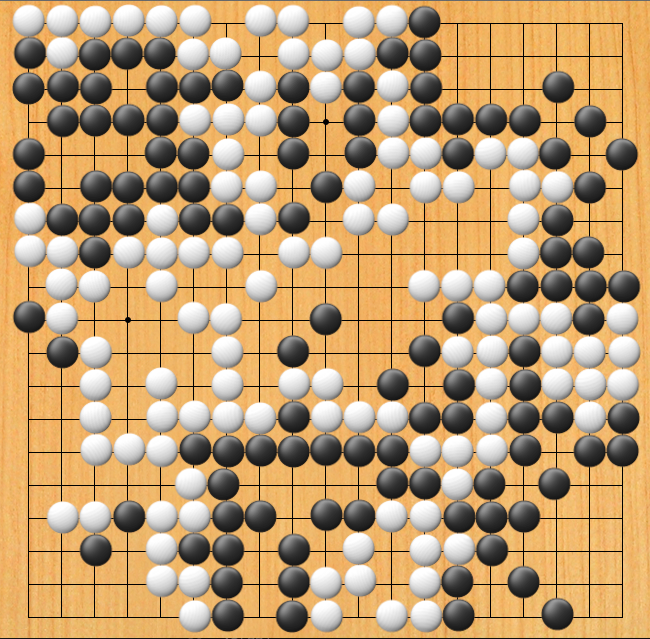
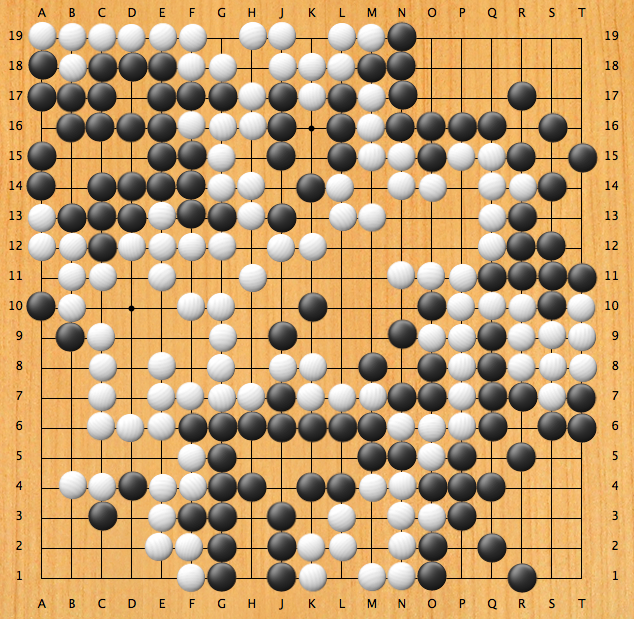
Add territories SGF command, mark dead stones

diff --git a/parser.go b/parser.go
@@ -21,45 +21,59 @@ func main() {
 
 	// check commandline args
 	if len(os.Args) != 2 {
-		fmt.Printf("Usage: %s <board.sgf>\n", os.Args[0])
-		os.Exit(1)
+		log.Fatalf("Usage: %s <board.sgf>\n", os.Args[0])
 	}
 
 	// read in sgf file
 	inputFilename := os.Args[1]
 	file, err := os.Open(inputFilename)
 	if err != nil {
-		log.Fatal("Error opening input file:", err)
+		log.Fatal(err)
 	}
 
 	scanner := bufio.NewScanner(file)
 	for scanner.Scan() {
 		line := scanner.Text()
 		if len(line) > 2 {
+			// first two characters are the command, the remaining are the parameters
 			cmd := line[:2]
-			// many commands use the second char to represent the color, so try to grab that now
+			// many commands use the second char to represent the color, so grab that now
 			color := board.Black
 			if cmd[1:] == "W" {
 				color = board.White
 			}
-			params := line[2:]
+			params := parseParams(line[2:])
 			// switch on the first character
+			// this would probably not work on the full SGF spec, but we're just dealing with a
+			// greatly simplified version
 			switch cmd[:1] {
 			case "S": // size command; initialize board
-				boardSize, err := strconv.Atoi(parseParams(params)[0])
+				boardSize, err := strconv.Atoi(params[0])
 				if err != nil {
-					log.Fatal("Error parsing board size", err)
+					log.Fatal("Error parsing board size: ", err)
 				}
 				theBoard = board.New(boardSize)
 			case "A": // initial stone placement
-				coords := parseParams(params)
-				for _, coord := range coords {
+				for _, coord := range params {
 					theBoard.Set(coord, color)
 				}
 			case ";": // move
-				coord := parseParams(params)[0]
+				coord := params[0]
 				if len(coord) > 0 {
 					theBoard.Set(coord, color)
+				}
+			case "T": // end-of-game territories list
+				for _, coord := range params {
+					var updatedPoint byte
+					switch theBoard.At(coord) {
+					case board.White:
+						updatedPoint = board.DeadWhite
+					case board.Black:
+						updatedPoint = board.DeadBlack
+					default:
+						updatedPoint = board.Empty
+					}
+					theBoard.Set(coord, updatedPoint)
 				}
 			}
 		}

diff --git a/board/board.go b/board/board.go
@@ -3,23 +3,30 @@ package board
 import (
 	"bytes"
 	"fmt"
+	"log"
 )
 
+// valid cell states
 const (
-	Empty = byte(0)
-	Black = byte(1)
-	White = byte(2)
+	Empty     = byte(0)
+	Black     = byte(1)
+	White     = byte(2)
+	DeadBlack = byte(3)
+	DeadWhite = byte(4)
 )
 
 type Board struct {
-	size  int
-	cells []byte
+	size   int
+	points []byte
 }
 
 func New(size int) Board {
+	if size > 26 {
+		log.Fatalf("Sorry, can't do a %dx%[1]d board; the maximum is 26x26", size)
+	}
 	board := Board{
-		size:  size,
-		cells: make([]byte, size*size),
+		size:   size,
+		points: make([]byte, size*size),
 	}
 
 	return board
@@ -33,20 +40,26 @@ func (board Board) coordToIndex(coord string) int {
 	return (yCoord-97)*board.size + xCoord - 97
 }
 
+// return the value of the board at the given coordinate
+// coordinate is given in SGF notation as a two-character string (xy)
+func (board Board) At(coord string) byte {
+	return board.points[board.coordToIndex(coord)]
+}
+
 // set the value of a board at a given coordinate
 // coordinate is given in SGF notation as a two-character string (xy)
 func (board Board) Set(coord string, value byte) {
-	board.cells[board.coordToIndex(coord)] = value
+	board.points[board.coordToIndex(coord)] = value
 }
 
 func (board Board) String() string {
 	var buffer bytes.Buffer
-	displayChars := [3]string{".", "B", "W"}
-	for i := 0; i < len(board.cells); i++ {
+	displayChars := [5]string{".", "X", "O", "%", "0"}
+	for i := 0; i < len(board.points); i++ {
 		if i%board.size == 0 {
 			buffer.WriteString("\n")
 		}
-		buffer.WriteString(fmt.Sprintf("%s ", displayChars[board.cells[i]]))
+		buffer.WriteString(fmt.Sprintf("%s ", displayChars[board.points[i]]))
 	}
 	buffer.WriteString("\n")
 	return buffer.String()

diff --git a/README.md b/README.md
@@ -5,3 +5,8 @@ Go game scorer. Very much a work in progress.
     go build
     ./go-score game.sgf
 
+# Resources
+
+- [Eidogo: Quick play online](http://eidogo.com/)
+- [SGF spec](http://www.red-bean.com/sgf/properties.html)
+- [Terminating and Scoring Go](http://jpolitz.github.io/blog/2012/12/25/go-termination.html)
